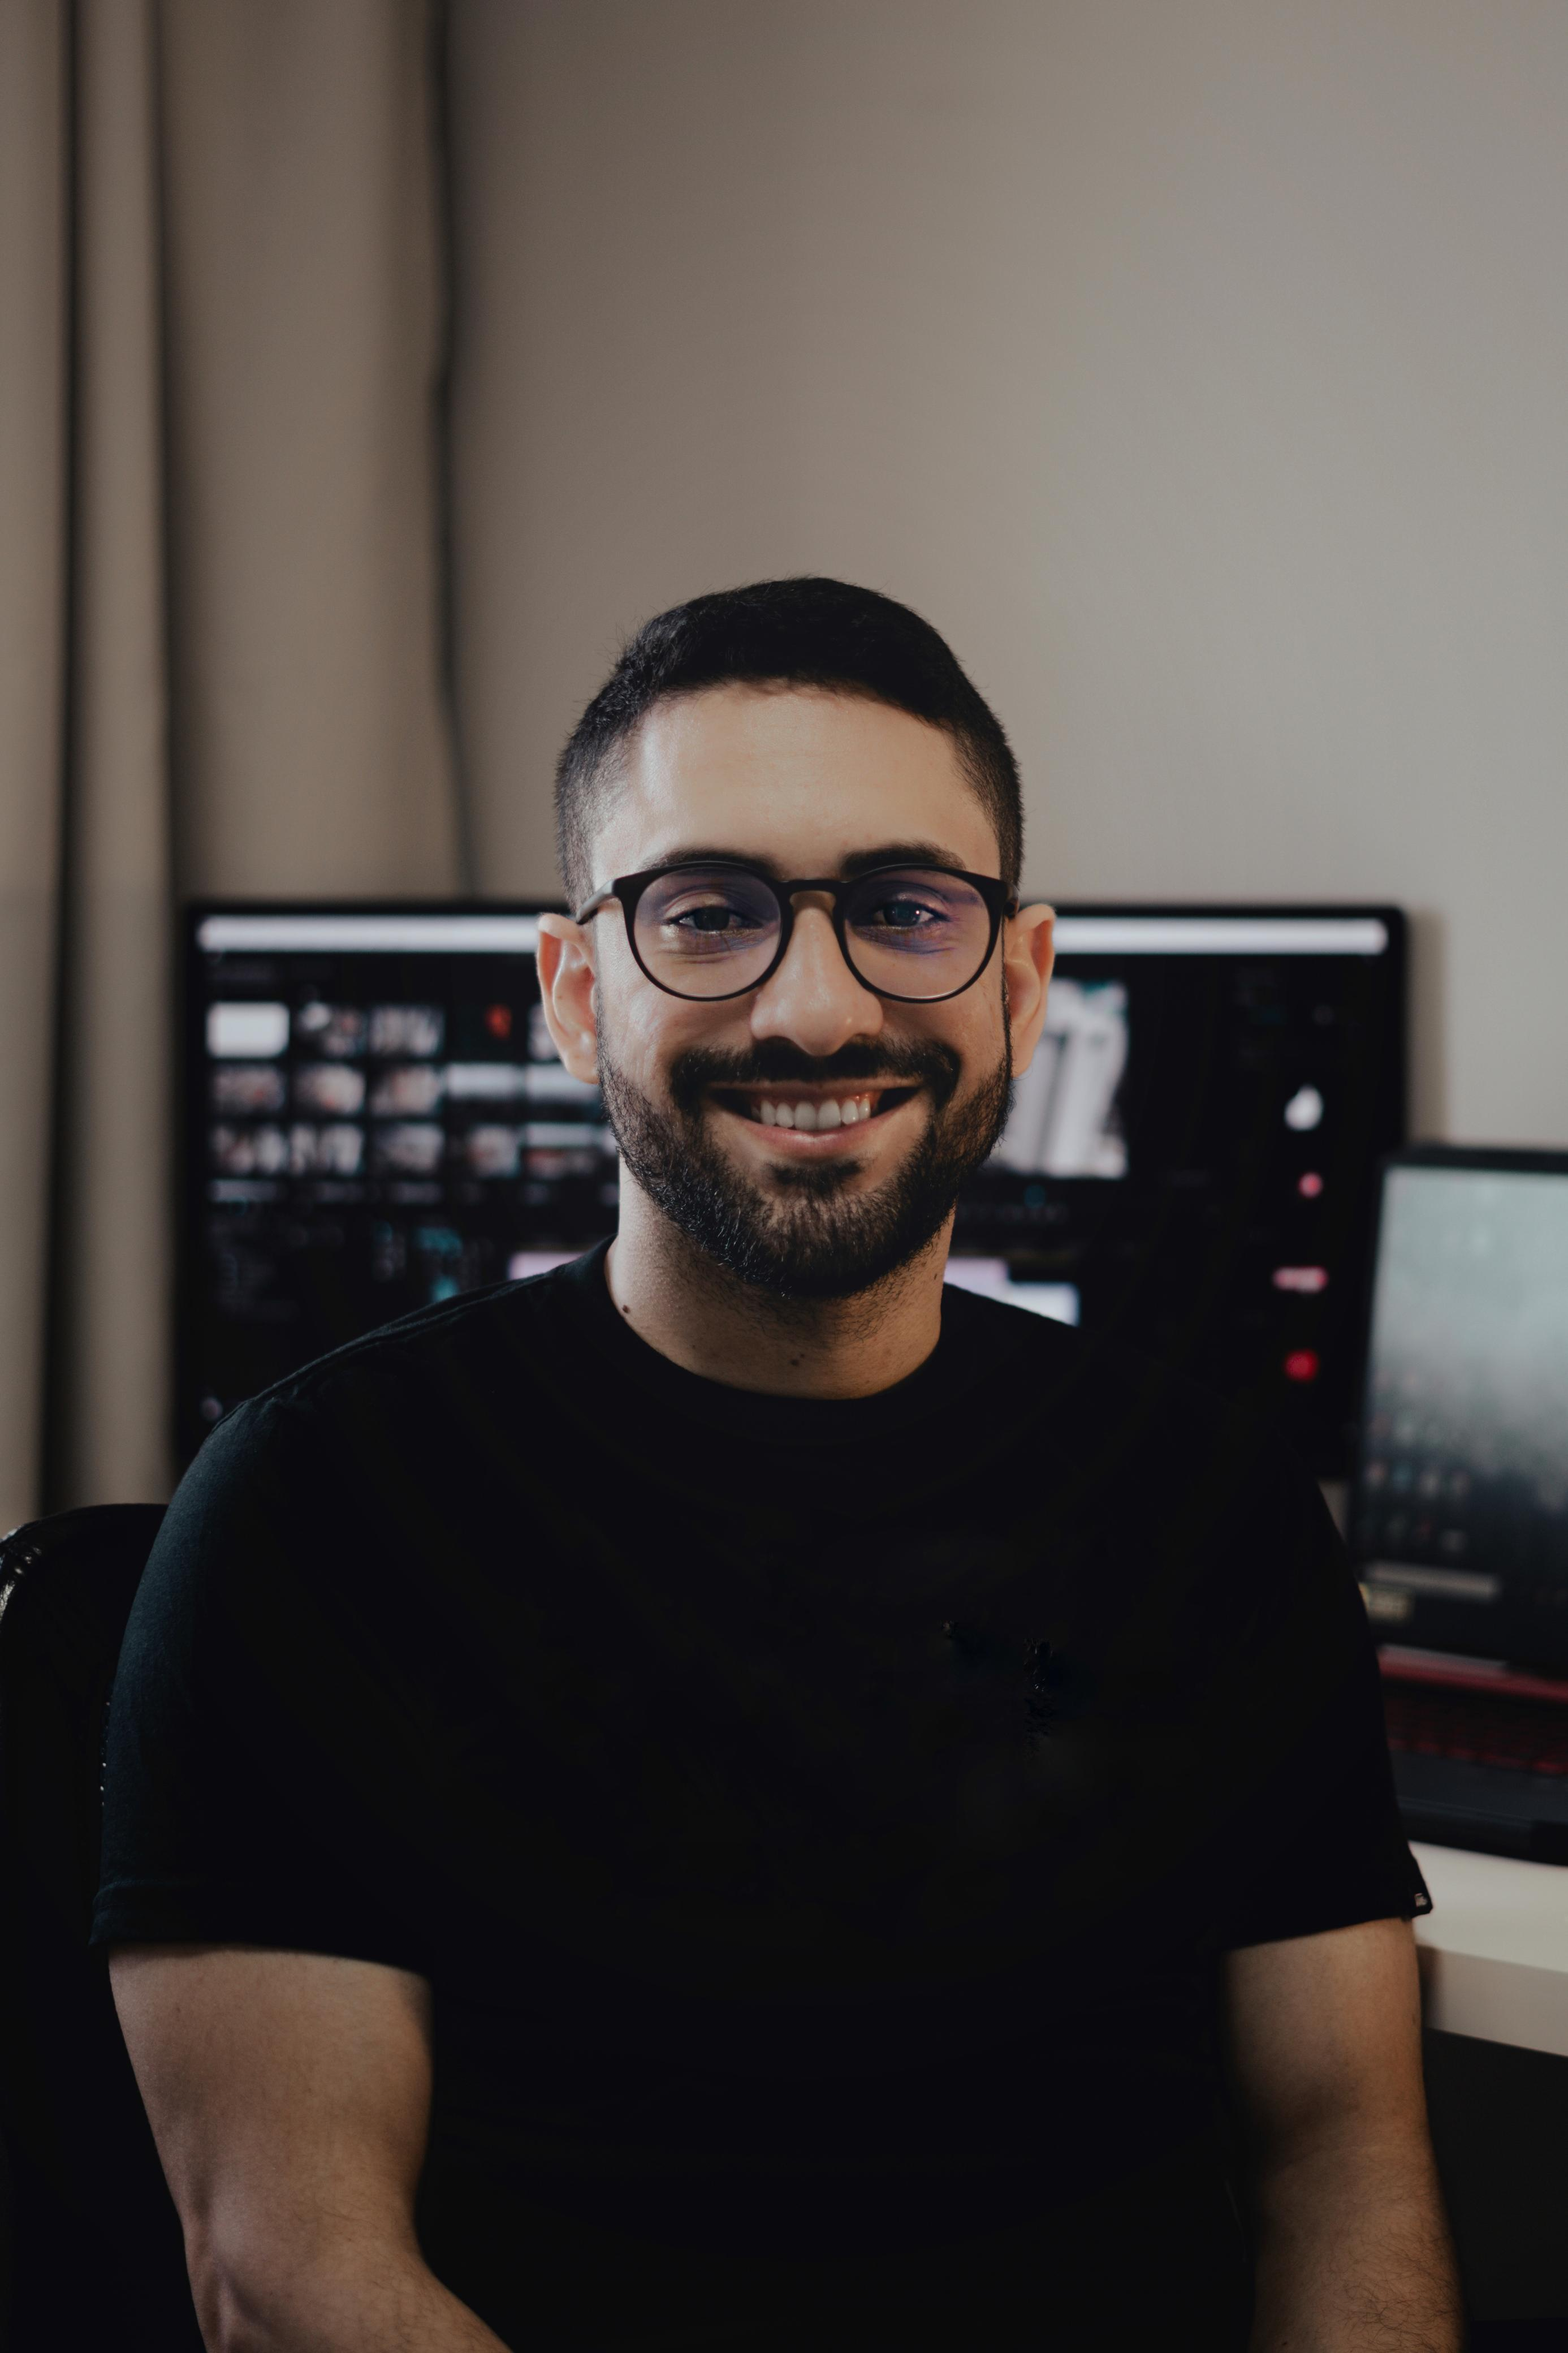
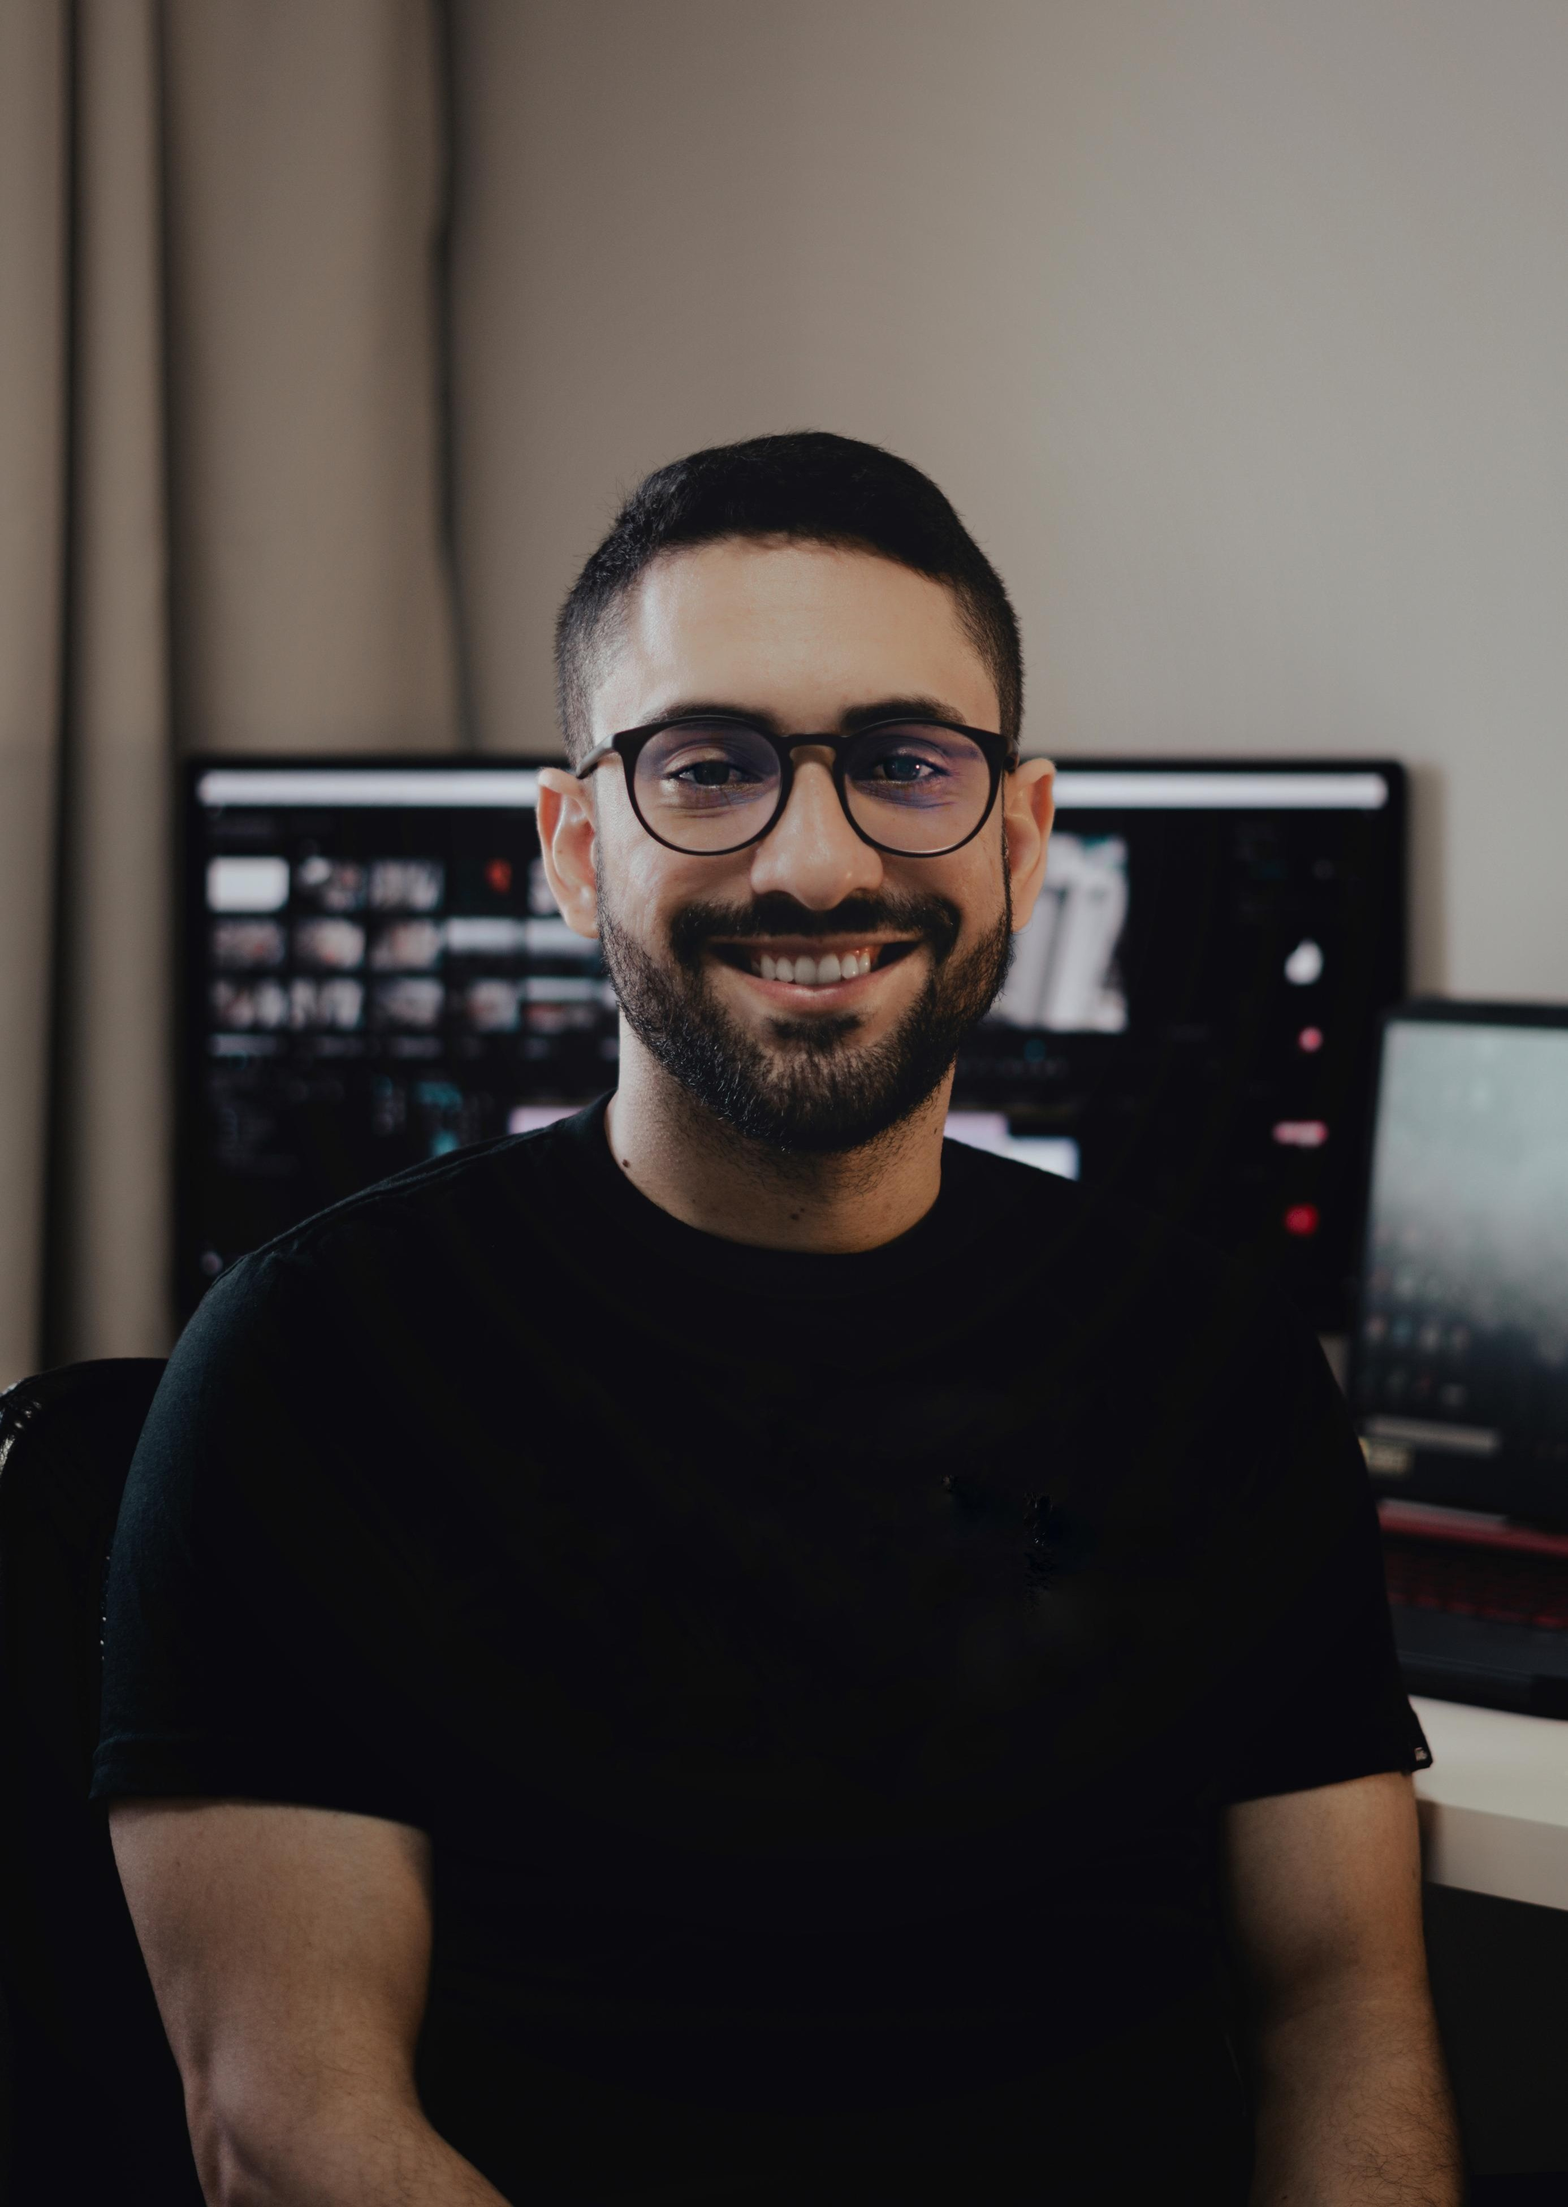
Substitui imagem de Bruno Xavier por nova versão em PNG e ajusta classe CSS da foto de Renato Santos

diff --git a/index.html b/index.html
@@ -228,7 +228,7 @@
         </div>
         <div class="team-grid">
           <article class="member reveal">
-            <div class="member-photo">
+            <div class="member-photo member-photo-renato">
               <img src="assets/team/renato.jpg" alt="Renato Santos, desenvolvedor web" loading="lazy" />
             </div>
             <div class="member-info">
@@ -259,7 +259,7 @@
           </article>
           <article class="member reveal d2">
             <div class="member-photo">
-              <img src="assets/team/bruno-team.jpeg" alt="Bruno Xavier, designer de interfaces e identidade visual" loading="lazy" />
+              <img src="assets/team/bruno-team.png" alt="Bruno Xavier, designer de interfaces e identidade visual" loading="lazy" />
             </div>
             <div class="member-info">
               <span class="member-role">Design &amp; Branding</span>
